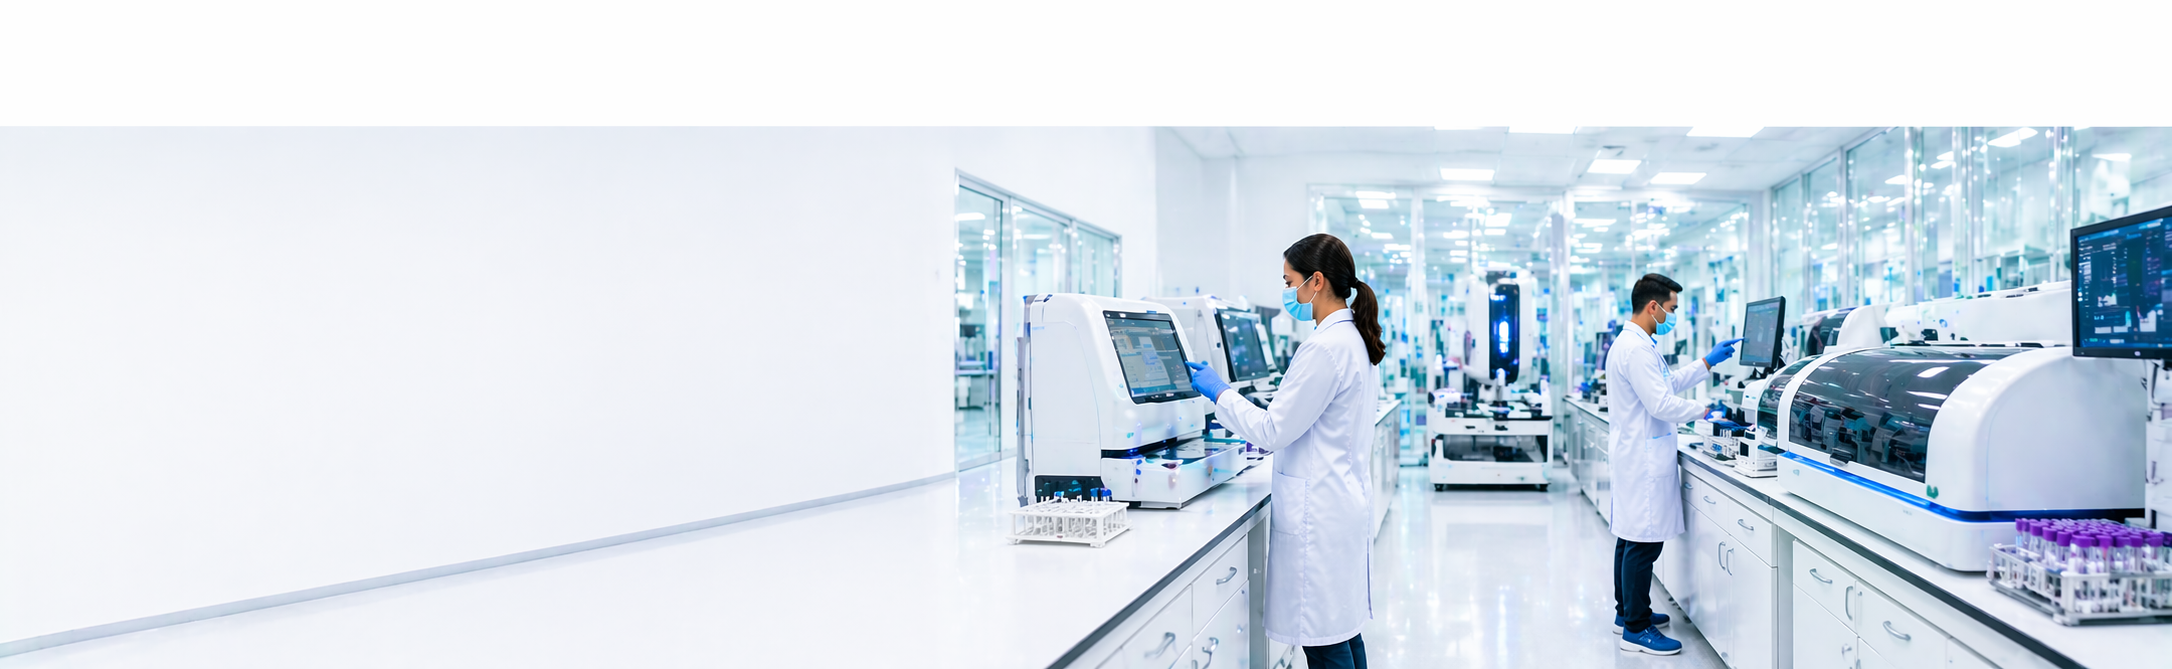
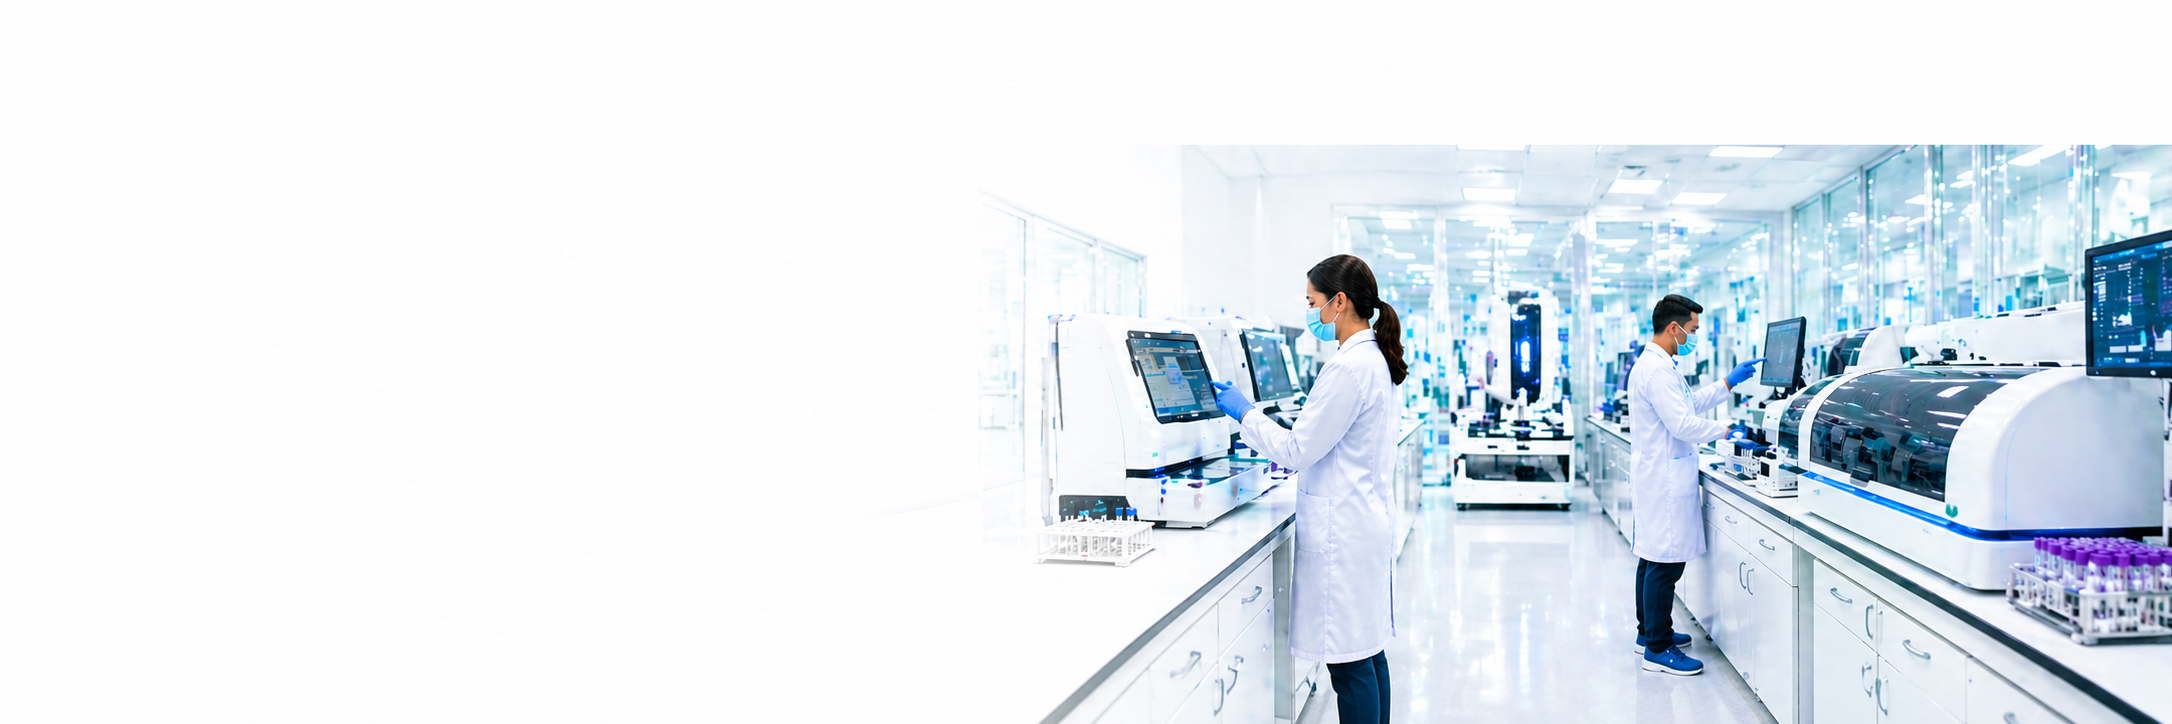
commit 8 landing page

Changed region(s): [[0.0, 0.1794, 1.0, 1.0], [0.3085, 0.1794, 0.3393, 0.2093]]

diff --git a/src/app/landing/landing.component.css b/src/app/landing/landing.component.css
@@ -239,7 +239,7 @@ section {
   top: 50%;
   transform: translateY(25%);
   background: rgba(255, 255, 255, 0.1); 
-  color: #ffffff;
+  color: #309D9D;
   border: none;
   font-size: 2.5rem;
   padding: 10px 15px;
@@ -250,7 +250,7 @@ section {
 }
 
 .carousel-btn:hover {
-  background: rgba(48, 157, 157, 0.8); 
+  background: rgba(255, 255, 255, 0.8); 
   transform: translateY(25%) scale(1.1); 
 }
 
@@ -277,16 +277,26 @@ section {
 }
 
 .hero-title {
-  font-size: 2.5rem;
-  color: #ffffff; 
-  margin-bottom: 2.5rem;
-  font-weight: bold;
+  font-family: 'Montserrat', sans-serif;
+  font-size: 3.5rem;     /* Letra más grande */
+  font-weight: 700;      /* 700 = Mucho relleno (Bold) */
+  color: #329d9c; 
+  margin-bottom: 0;      /* Le quitamos el margen para que se pegue al subtítulo */
+  line-height: 1.1;      /* Ajusta el espacio entre líneas */
 }
 
+.hero-subtitle {
+  font-family: 'Montserrat', sans-serif;
+  font-size: 2.8rem;     /* Un poco más pequeña que el título */
+  font-weight: 300;      /* 300 = Sin relleno (Light) */
+  color: #329d9c;
+  margin-top: 0;         /* Pegado al título de arriba */
+  margin-bottom: 2.5rem; /* Espacio antes de los checks */
+}
 .features-grid {
   display: grid;
   grid-template-columns: 1fr 1fr; 
-  gap: 25px; 
+  gap: 25px;  /* espacio entre los checks*/
 }
 
 .feature-item {
@@ -294,7 +304,7 @@ section {
   align-items: center;
   gap: 12px;
   font-size: 0.9rem; 
-  color: #ffffff; 
+  color: #329d9c; 
   font-weight: 500;
   padding: 5px 0;
   background: transparent; 
@@ -305,7 +315,7 @@ section {
 .check-icon {
   width: 24px;
   height: 24px;
-  color: #ffffff; 
+  color: #329d9c; 
 }
 /* ================= SECCIÓN NOSOTROS ================= */
 .about-section {

diff --git a/src/app/landing/landing.component.ts b/src/app/landing/landing.component.ts
@@ -21,22 +21,25 @@ export class LandingComponent implements OnInit, OnDestroy {
   slides = [
     {
       image: '/assets/inicio.png',
-      title: 'Confianza y precisión en tus resultados',
+      title: 'La mejor atención',         // <--- Letra GORDITA
+      subtitle: 'con calidad y calidez',  // <--- Letra DELGADA
       features: ['Personal Certificado', 'Resultados exactos'],
       top: '60%',  // Qué tan abajo empieza el texto (0% es arriba pegado, 100% es abajo)
       left: '10%'  // Qué tan a la izquierda empieza (0% es izquierda pegada)
     },
     {
       image: '/assets/inicio2.png',
-      title: 'Tecnología médica de última generación',
-      features: ['Diagnóstico Exacto', 'Procesos Automatizados', 'Equipos Philips'],
+      title: 'Tecnología médica ',
+      subtitle: 'de última generación',
+      features: ['Diagnóstico Exacto', 'Procesos Automatizados'],
       top: '60%',
       left: '10%'  // Más del 50% lo empuja hacia el lado derecho
     },
     {
       image: '/assets/inicio3.png',
-      title: 'Atención Profesional y Humana',
-      features: ['Personal Capacitado', 'Resultados Confiables', 'Ética Médica'],
+      title: 'Atención Profesional ',
+      subtitle: 'y Humana',
+      features: ['Resultados Confiables', 'Ética Médica'],
       top: '60%',
       left: '30%'
     },

diff --git a/src/app/landing/landing.component.html b/src/app/landing/landing.component.html
@@ -35,10 +35,11 @@
            *ngFor="let slide of slides; let i = index" 
            [class.active]="i === currentSlide">
         
-        <div class="slide-bg" [ngStyle]="{'background-image': 'linear-gradient(to right, rgba(48, 157, 157, 0.7) 0%, rgba(48, 157, 157, 0.3) 40%, transparent 80%), url(' + slide.image + ')'}"></div>
+        <div class="slide-bg" [ngStyle]="{'background-image': 'linear-gradient(to right, rgb(255, 255, 255) 20%, rgba(255, 247, 237, 0) 60%, transparent 100%), url(' + slide.image + ')'}"></div>
 
         <div class="hero-container pos-custom" [ngStyle]="{'top': slide.top, 'left': slide.left}">
           <h2 class="hero-title">{{ slide.title }}</h2>
+          <h3 class="hero-subtitle">{{ slide.subtitle }}</h3>
           
           <div class="features-grid">
             <div class="feature-item" *ngFor="let feature of slide.features">
